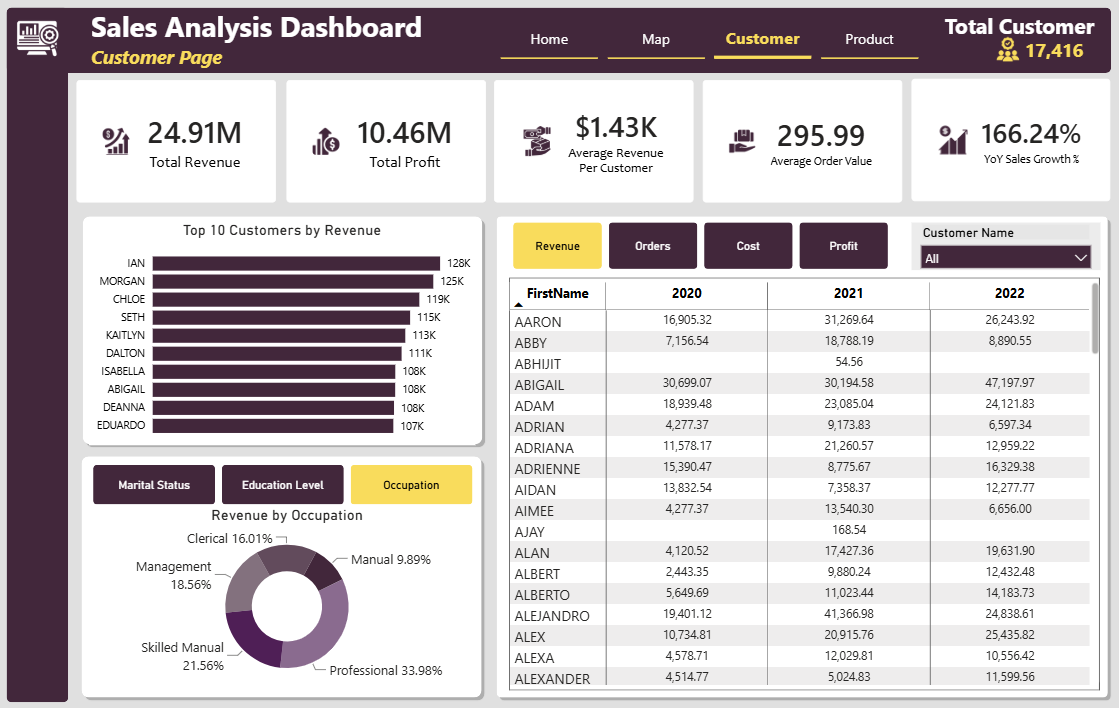
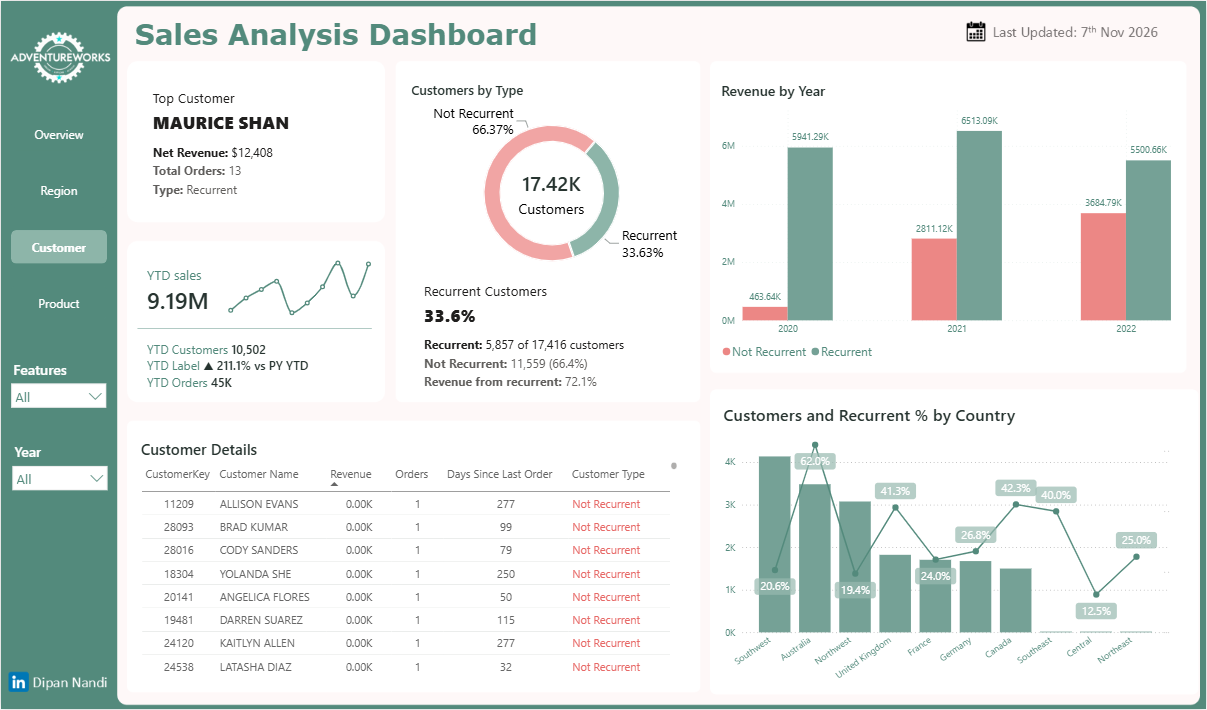
Update AdventureWorks dashboard images and README

diff --git a/powerbi-projects/adventureworks-sales-dash-analysis-powerbi/README.md b/powerbi-projects/adventureworks-sales-dash-analysis-powerbi/README.md
@@ -13,7 +13,7 @@ An end-to-end Business Intelligence project that transforms raw AdventureWorks s
 
 # Dashboard Preview
 
-![Dashboard](dashboard/Home_dash.png)
+![Dashboard](dashboard/Overview_dash.png)
 
 ---
 
@@ -139,22 +139,21 @@ Business metrics were developed using DAX to support dynamic reporting and analy
 
 # Dashboard Pages
 
-## Home Dashboard
+## Overview Dashboard
 
 Provides an executive overview of overall business performance.
 
 ### Highlights
 
-- Revenue, COGS and Profit KPIs
+- Revenue, Profit, Order Qty and COGS KPIs
 - Profit Margin
-- Revenue Trend by Year and Quarter
-- Revenue by Product Color
-- Revenue by Gender
-- Product Category Performance
-- YoY Sales Growth
+- Revenue & Profit by Quarter
+- Revenue by Subcategory
+- YoY Revenue Growth by Quarter
+- Revenue Share by Country
 - Dynamic Business Summary
 
-![Home Dashboard](dashboard/Home_dash.png)
+![Overview Dashboard](dashboard/Overview_dash.png)
 
 ---
 
@@ -164,11 +163,13 @@ Analyzes business performance across different geographical locations.
 
 ### Highlights
 
-- Interactive Map
-- Country Revenue Comparison
-- Regional KPIs
-- Return Quantity Analysis
-- Dynamic Region and Year Filters
+- Country Flag Cards with Revenue
+- Top Country Summary (Revenue, Orders, Customers)
+- Interactive Map of Locations
+- Country Performance Table (Revenue, Share, Orders, Customers, Profit, YoY)
+- Revenue by Country Ranking
+- US Regional Breakdown
+- Parameter-driven Region, Year and Metric Filters
 
 ![Regional Dashboard](dashboard/Region_dash.png)
 
@@ -180,12 +181,13 @@ Provides customer-focused sales analysis.
 
 ### Highlights
 
-- Top Customers by Revenue
-- Average Revenue per Customer
-- Average Order Value
-- Revenue by Occupation
-- Customer Performance Matrix
-- Customer Filter
+- Top Customer Summary (Revenue, Orders, Type)
+- Customers by Type (Recurrent vs Not Recurrent)
+- Revenue by Year split by Customer Type
+- YTD Sales Sparkline with PY comparison
+- Customer Details Table with Days Since Last Order
+- Customers and Recurrent % by Country
+- Feature and Year Filters
 
 ![Customer Dashboard](dashboard/Customer_dash.png)
 
@@ -197,12 +199,14 @@ Provides detailed product performance analysis.
 
 ### Highlights
 
-- Top Profitable Products
-- Top Products by Revenue
-- Average Selling Price
-- Return Rate
-- Product Performance Matrix
-- Product Filter
+- Profit Margin and Return Rate KPIs
+- Top Product Summary (Revenue, Units Sold)
+- Top 10 Profitable Products by Model Name
+- Top 5 Products by Revenue
+- Returns by Category
+- Revenue by Product Color
+- Product Details Table with Days Since Last Sale
+- Category and Year Filters
 
 ![Product Dashboard](dashboard/Product_dash.png)
 
@@ -211,12 +215,13 @@ Provides detailed product performance analysis.
 # Key Insights
 
 - Generated over **$24.91M** in total revenue.
-- Achieved **$10.46M** in total profit with a **41.97%** profit margin.
-- Bikes contributed the largest share of revenue and profitability.
-- Australia and the United States were among the strongest performing markets.
+- Achieved **$10.46M** in total profit with a **41.97%** profit margin (COGS at 58.0% of revenue).
+- Scaled to **84K** order quantity across **17.42K** customers.
+- Bikes contributed the largest share of revenue and profitability; *Mountain-200 Black, 46* was the top product at **$1.24M**.
+- The **United States** was the strongest market (**$7.94M**, 31.86% of revenue), closely followed by **Australia** (29.77%).
+- Recurrent customers were only **33.63%** of the base but drove **72.1%** of revenue.
+- Return rate was **2.17%** (1 in 46 units returned).
 - Revenue showed consistent growth across the reporting period.
-- Customer purchasing behavior varied across occupations and individual customers.
-- Product profitability differed significantly across product categories.
 - Interactive filtering enables flexible analysis by geography, customer, product, and time.
 
 ---
